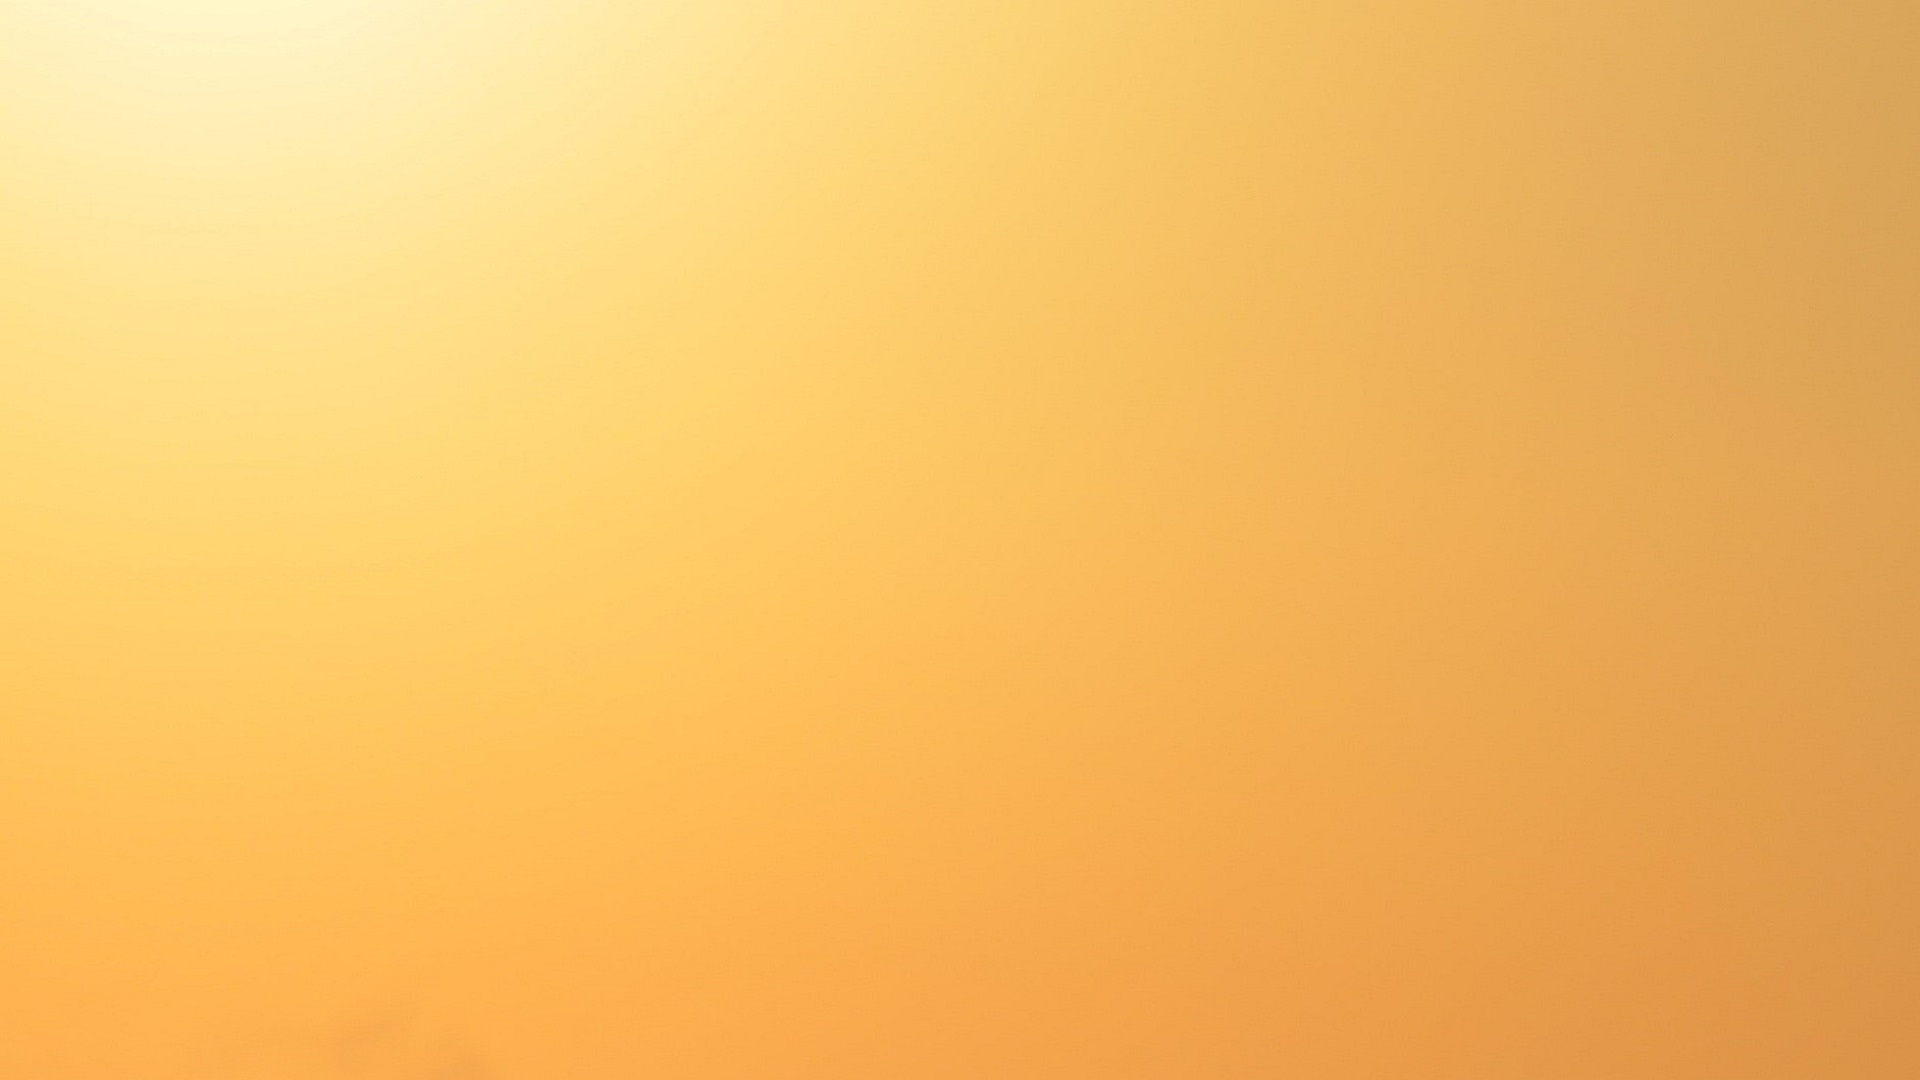
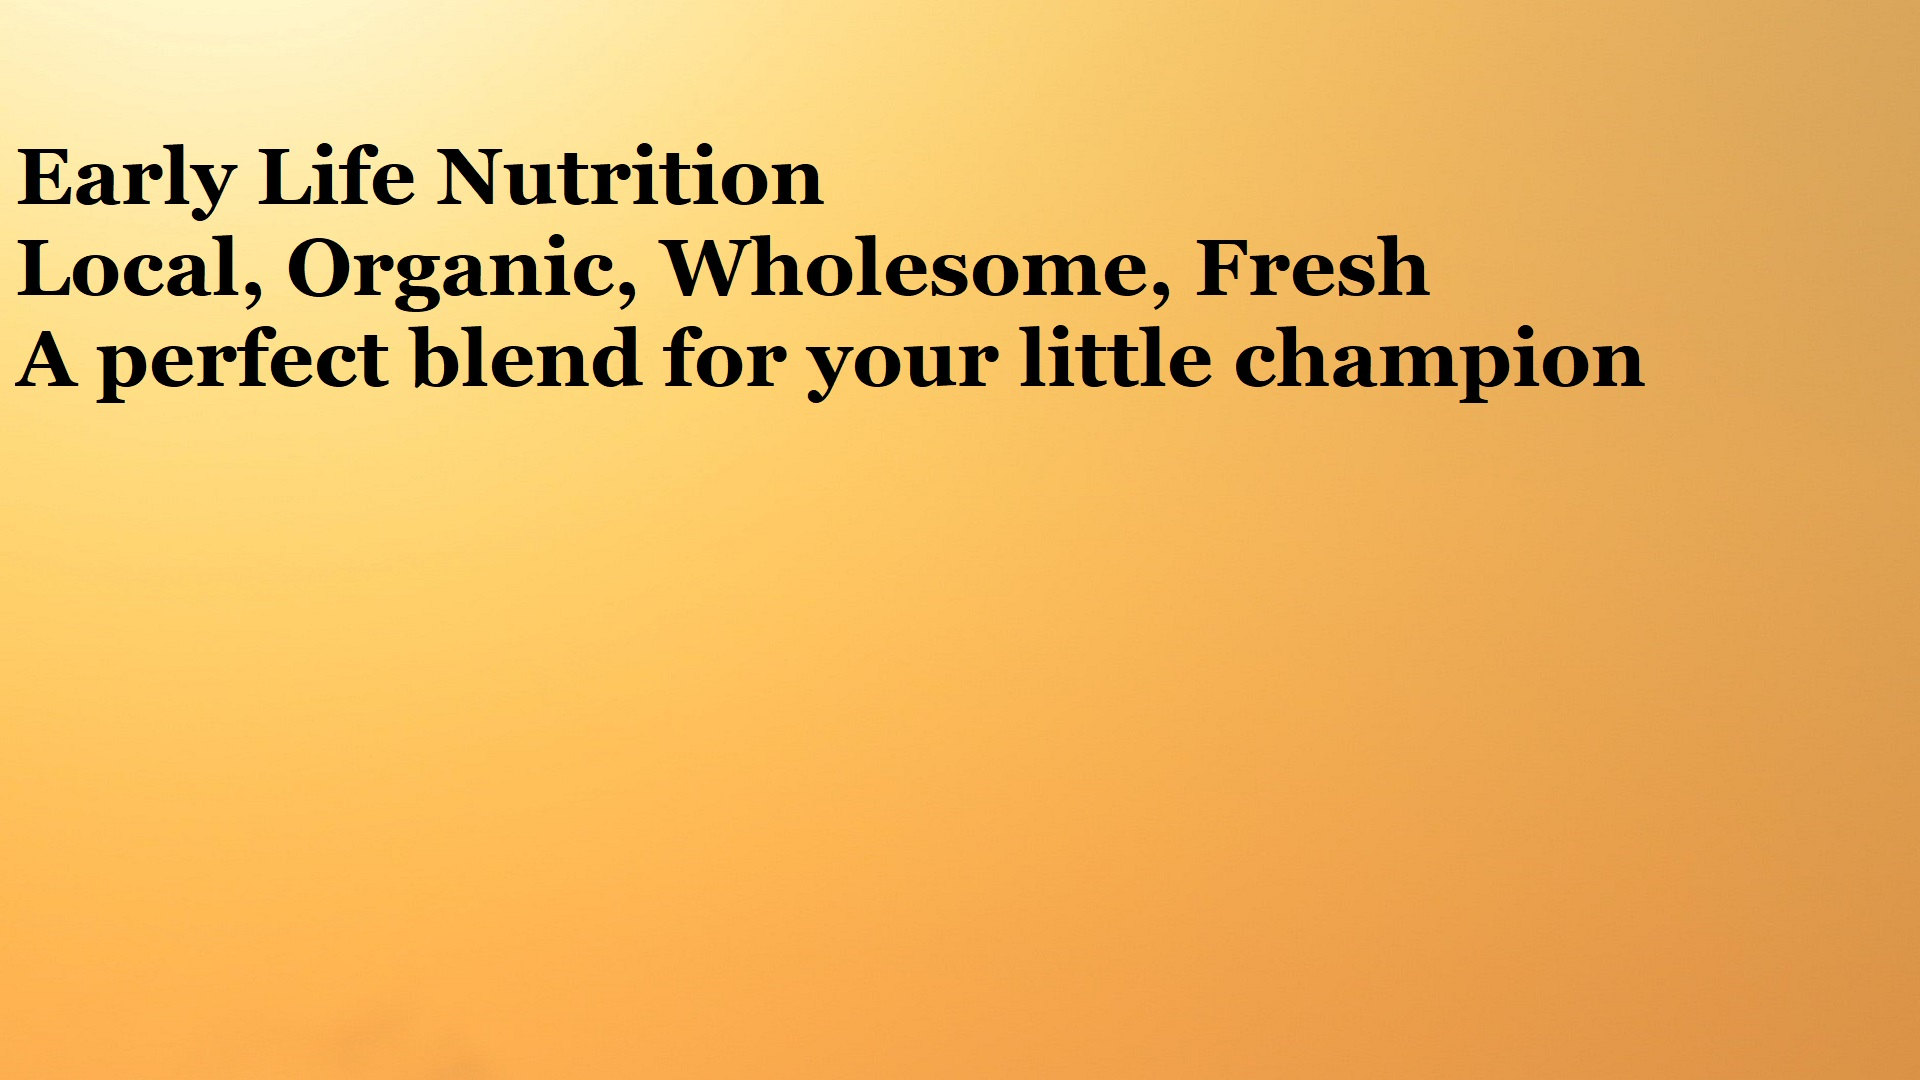
changes

Changed region(s): [[0.0, 0.1222, 0.875, 0.3667]]

diff --git a/src/app/home/home.component.html b/src/app/home/home.component.html
@@ -16,12 +16,12 @@
         [matRippleCentered]="true" [matRippleDisabled]="false" [matRippleUnbounded]="false" [matRippleRadius]="300">
         
           
-          <mat-card-title><br><br><span class="headertitle">Early Life Nutrition</span><br><br><span class="headertitle">Local,Organic, Wholesome, Fresh</span><br><br><span class="headertitle">Because your baby deserves only the finest</span>
+          <!-- <mat-card-title><br><br><span class="headertitle">Early Life Nutrition</span><br><br><span class="headertitle">Local,Organic, Wholesome, Fresh</span><br><br><span class="headertitle">Because your baby deserves only the finest</span>
             <br><br><br><br><br><br><br><br><br><br><br><br><br><br>
          
-          </mat-card-title>
-          <!-- <img mat-card-image src="{{this.baseUrl+page.value.substring(1)}}.jpg"> -->
-          
+          </mat-card-title> --><div class="rippleHover">
+          <img mat-card-image src="{{this.baseUrl+page.value.substring(1)}}.jpg">
+        </div>
         
          
 

diff --git a/src/app/home/home.component.css b/src/app/home/home.component.css
@@ -34,12 +34,12 @@
  
 }
 .custom-card2{
-  background: rgb(255, 255, 255);
+  background: rgb(0, 0, 0);
   padding: 16px -1px;
  cursor: pointer;
  user-select: none;
  opacity: 0.2;
- color: black;
+
 }
 .custom-card3{
   background-color: black;
